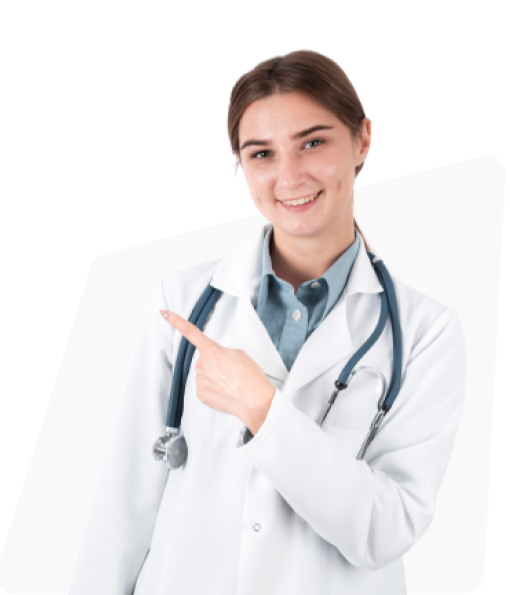
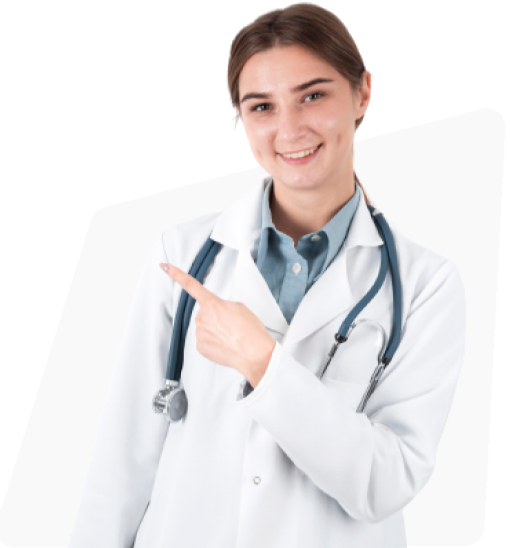
add services-section

diff --git a/index.html b/index.html
@@ -6,6 +6,12 @@
     <meta name="viewport" content="width=device-width, initial-scale=1.0" />
     <title>Healh-BOX</title>
     <link rel="stylesheet" href="Style.css" />
+    <link rel="preconnect" href="https://fonts.googleapis.com" />
+    <link rel="preconnect" href="https://fonts.gstatic.com" crossorigin />
+    <link
+      href="https://fonts.googleapis.com/css2?family=Rubik:wght@400;500;600;700&display=swap"
+      rel="stylesheet"
+    />
   </head>
   <body>
     <header class="main-header">
@@ -70,66 +76,82 @@
     <section class="services-section" id="services--section">
       <h2 class="services-heading">Our Services</h2>
       <p class="subheading">What will you find in Health-BOX website ?</p>
-      <img src="img/services-img.png" alt="" class="services-img" />
-      <a href="" class="service-div">
-        <div>
-          <span class="service-name">Book an Appointment</span>
-          <p class="service-description">You can book an appointment online</p>
-          <ul class="service-list">
+      <div class="services">
+        <a href="" class="service-div">
+          <div>
+            <span class="service-name">Statistic reports</span>
+            <p class="service-description">
+              All reports and diagnoses are under study by group of statistician
+              to release most common diseases and if there is new disease to
+              provide reports about it and how to deal with it.
+            </p>
+            <!-- <ul class="service-list">
             <li>Choose your specilization</li>
             <li>Choose your Doctor</li>
             <li>Request an appointment</li>
             <li>Wait for response with appointment from doctor</li>
-          </ul>
-        </div>
-      </a>
-      <a href="" class="service-div">
-        <div>
-          <span class="service-name">Consult a doctor</span>
-          <p class="service-description">You can consult a doctor online</p>
-          <ul class="service-list">
+          </ul> -->
+          </div>
+        </a>
+        <a href="" class="service-div">
+          <div>
+            <span class="service-name">Book an Appointment</span>
+            <p class="service-description">
+              You can book an appointment online on the website without going to
+              the clinic to book an appointment.
+            </p>
+            <!-- <ul class="service-list">
+              <li>Choose your specilization</li>
+              <li>Choose your Doctor</li>
+              <li>Request an appointment</li>
+              <li>Wait for response with appointment from doctor</li>
+            </ul> -->
+          </div>
+        </a>
+        <a href="" class="service-div">
+          <div>
+            <span class="service-name">Consult a doctor</span>
+            <p class="service-description">
+              You can consult and ask a doctor online in chat room with the
+              doctor you choose.
+            </p>
+            <!-- <ul class="service-list">
             <li>Choose your specilization</li>
             <li>Choose your Doctor</li>
             <li>Enter chat Box</li>
             <li>Start chating and asking the doctor</li>
-          </ul>
-        </div>
-      </a>
-      <a href="" class="service-div">
-        <div>
-          <span class="service-name"
-            >Store your health records and prescriptions</span
-          >
-          <p class="service-description">
-            You can store your health records and prescriptions on cloud system
-            and retrieve it whenever you need
-          </p>
-        </div>
-      </a>
-      <a href="" class="service-div">
-        <div>
-          <span class="service-name">Book an Appointment</span>
-          <p class="service-description">You can book an appointment online</p>
-          <ul class="service-list">
+          </ul> -->
+          </div>
+        </a>
+        <a href="" class="service-div">
+          <div>
+            <span class="service-name"
+              >Store your health records and prescriptions</span
+            >
+            <p class="service-description">
+              You can store your health records and prescriptions on cloud
+              system and retrieve it whenever you need
+            </p>
+          </div>
+        </a>
+        <a href="" class="service-div">
+          <div>
+            <span class="service-name">Health Tips</span>
+            <p class="service-description">
+              The website provide to you health tips to deal with most common
+              diseases these tips and advices are provided from group of best
+              doctors.
+            </p>
+            <!-- <ul class="service-list">
             <li>Choose your specilization</li>
             <li>Choose your Doctor</li>
             <li>Request an appointment</li>
             <li>Wait for response with appointment from doctor</li>
-          </ul>
-        </div>
-      </a>
-      <a href="" class="service-div">
-        <div>
-          <span class="service-name">Book an Appointment</span>
-          <p class="service-description">You can book an appointment online</p>
-          <ul class="service-list">
-            <li>Choose your specilization</li>
-            <li>Choose your Doctor</li>
-            <li>Request an appointment</li>
-            <li>Wait for response with appointment from doctor</li>
-          </ul>
-        </div>
-      </a>
+          </ul> -->
+          </div>
+        </a>
+        <img src="img/services-img.png" alt="" class="services-img" />
+      </div>
     </section>
   </body>
 </html>

diff --git a/style.css b/style.css
@@ -72,6 +72,39 @@ body {
   font-weight: 400;
   color: #343a40;
 }
+/* ======================= GENRAL REUSABLE COMPONENT ===================== */
+.btn:link,
+.btn:visited {
+  font-size: 2rem;
+  padding: 1.6rem 3.2rem;
+  color: white;
+  font-weight: 600;
+  text-decoration: none;
+  border-radius: 0.9rem;
+  transition: all 0.5s;
+  display: inline-block;
+}
+.btn-login:link,
+.btn-login:visited {
+  background-color: #339af0;
+}
+.btn-login:hover,
+.btn-login:active {
+  cursor: pointer;
+  background-color: #2e8bd8;
+}
+.btn-learn:link,
+.btn-learn:visited {
+  background-color: #fff;
+  color: #47a4f2;
+}
+.btn-learn:hover,
+.btn-learn:active {
+  cursor: pointer;
+  color: #fff;
+  background-color: #5caef3;
+  box-shadow: inset 0 0 0 0.3rem #fff;
+}
 /* ============================== Main header ============================ */
 .main-header {
   height: 6.2rem;
@@ -202,42 +235,12 @@ body {
   color: #2e8bd8;
   font-weight: 700;
 }
-/* ======================= GENRAL REUSABLE COMPONENT ===================== */
-.btn:link,
-.btn:visited {
-  font-size: 2rem;
-  padding: 1.6rem 3.2rem;
-  color: white;
-  font-weight: 600;
-  text-decoration: none;
-  border-radius: 0.9rem;
-  transition: all 0.5s;
-  display: inline-block;
-}
-.btn-login:link,
-.btn-login:visited {
-  background-color: #339af0;
-}
-.btn-login:hover,
-.btn-login:active {
-  background-color: #2e8bd8;
-}
-.btn-learn:link,
-.btn-learn:visited {
-  background-color: #fff;
-  color: #47a4f2;
-}
-.btn-learn:hover,
-.btn-learn:active {
-  color: #fff;
-  background-color: #5caef3;
-  box-shadow: inset 0 0 0 0.3rem #fff;
-}
+
 /* ============================ SERVICES SECTION ========================== */
 .services-section {
   max-width: 130rem;
   margin: 0 auto;
-  padding: 0rem 3.2rem;
+  padding: 0rem 3.2rem 8rem 3.2rem;
 }
 .services-heading {
   margin-bottom: 1.6rem;
@@ -257,5 +260,51 @@ body {
   font-weight: 500;
   margin-bottom: 9.6rem;
 }
+.services {
+  display: grid;
+  grid-template-columns: repeat(3, 1fr);
+  grid-template-rows: repeat(2, 1fr);
+  gap: 2.4rem;
+}
+.services-img {
+  grid-column: 3;
+  max-width: 100%;
+  align-self: center;
+  justify-self: center;
+  grid-row: 1/-1;
+}
+.service-div:link,
+.service-div:visited {
+  cursor: pointer;
+  padding: 1.6rem;
+  box-shadow: 0 2.4rem 4.8rem rgba(0, 0, 0, 0.075);
+  text-decoration: none;
+  border: 0.5rem solid #339af0;
+  border-radius: 1.2rem;
+}
+.service-div:hover,
+.service-div:active {
+  background-color: #339af0;
+  color: #fff;
+}
+.service-div:hover p,
+.service-div:hover .service-name,
+.service-div:active p,
+.service-div:active .service-name {
+  color: #fff;
+}
 
-/* ============================ FOOTER SECTION ========================== */
+.service-name {
+  font-size: 2.4rem;
+  color: #339af0;
+  margin-bottom: 1.2rem;
+  display: inline-block;
+  font-weight: 600;
+}
+.service-description {
+  color: #343a40;
+  line-height: 1.5;
+  font-size: 1.8rem;
+  font-weight: 500;
+}
+/* ============================= FOOTER SECTION ========================== */
